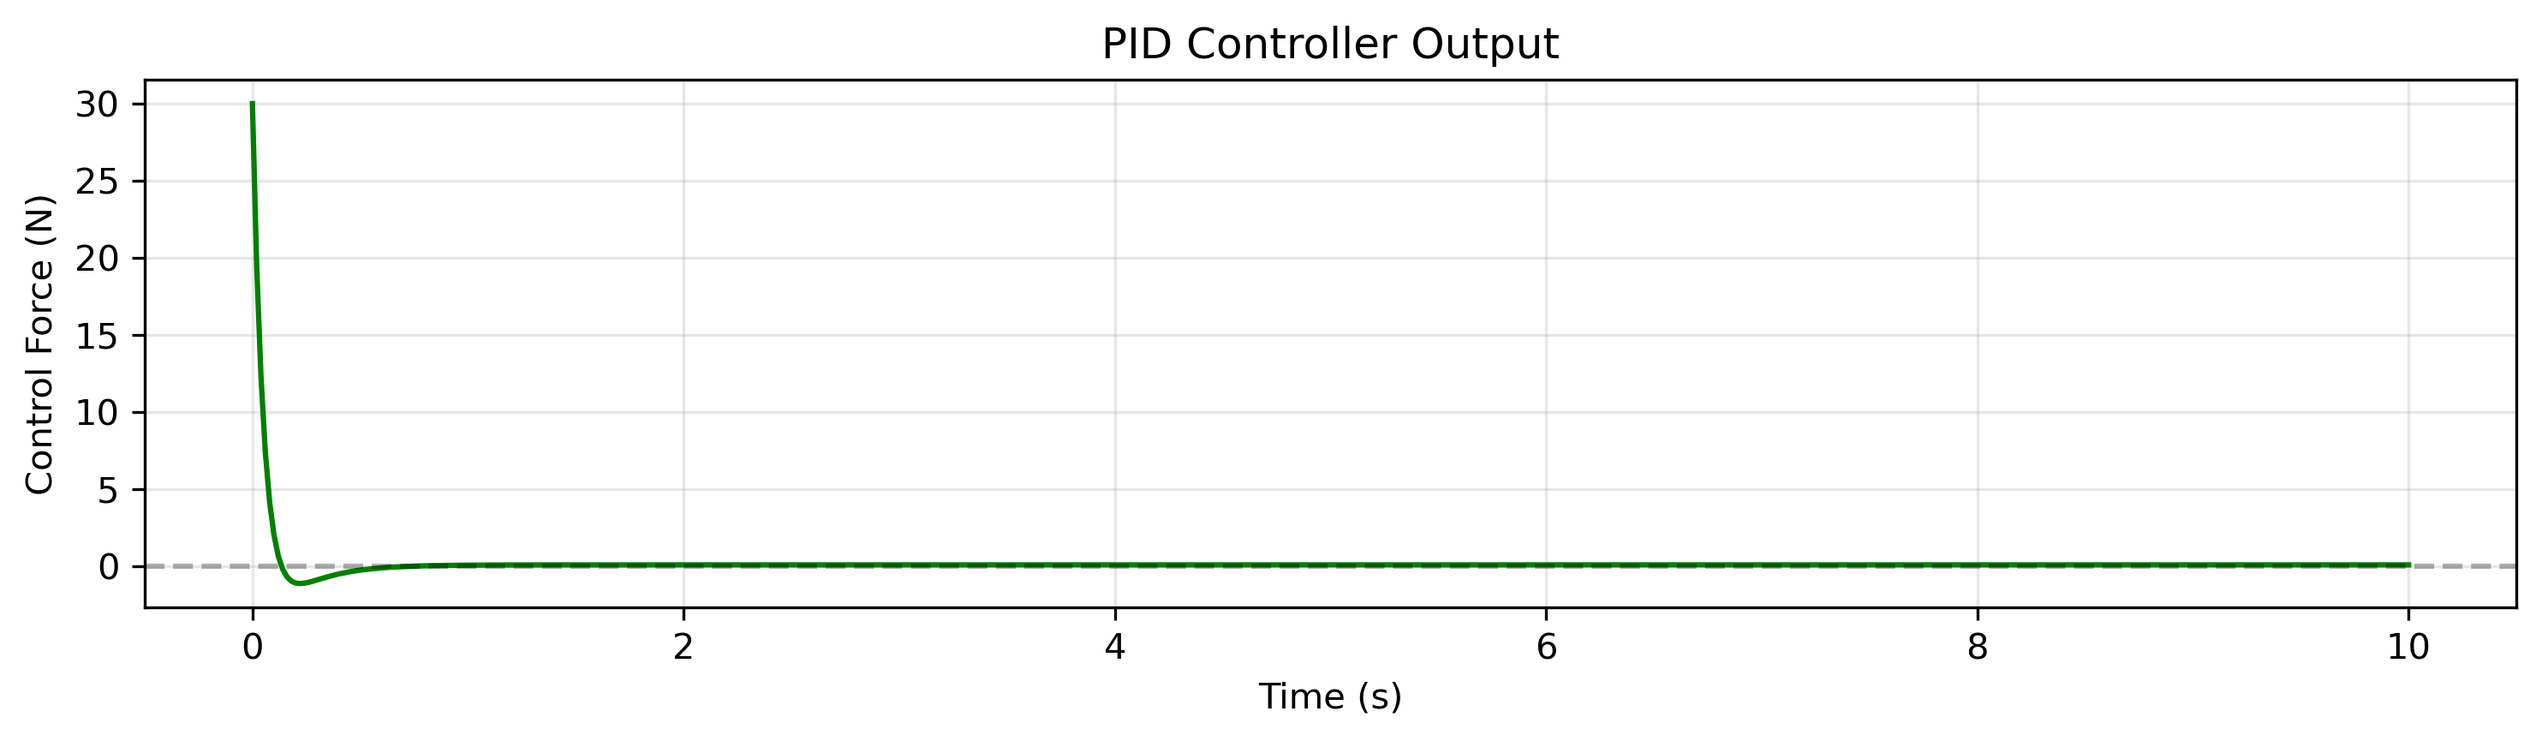
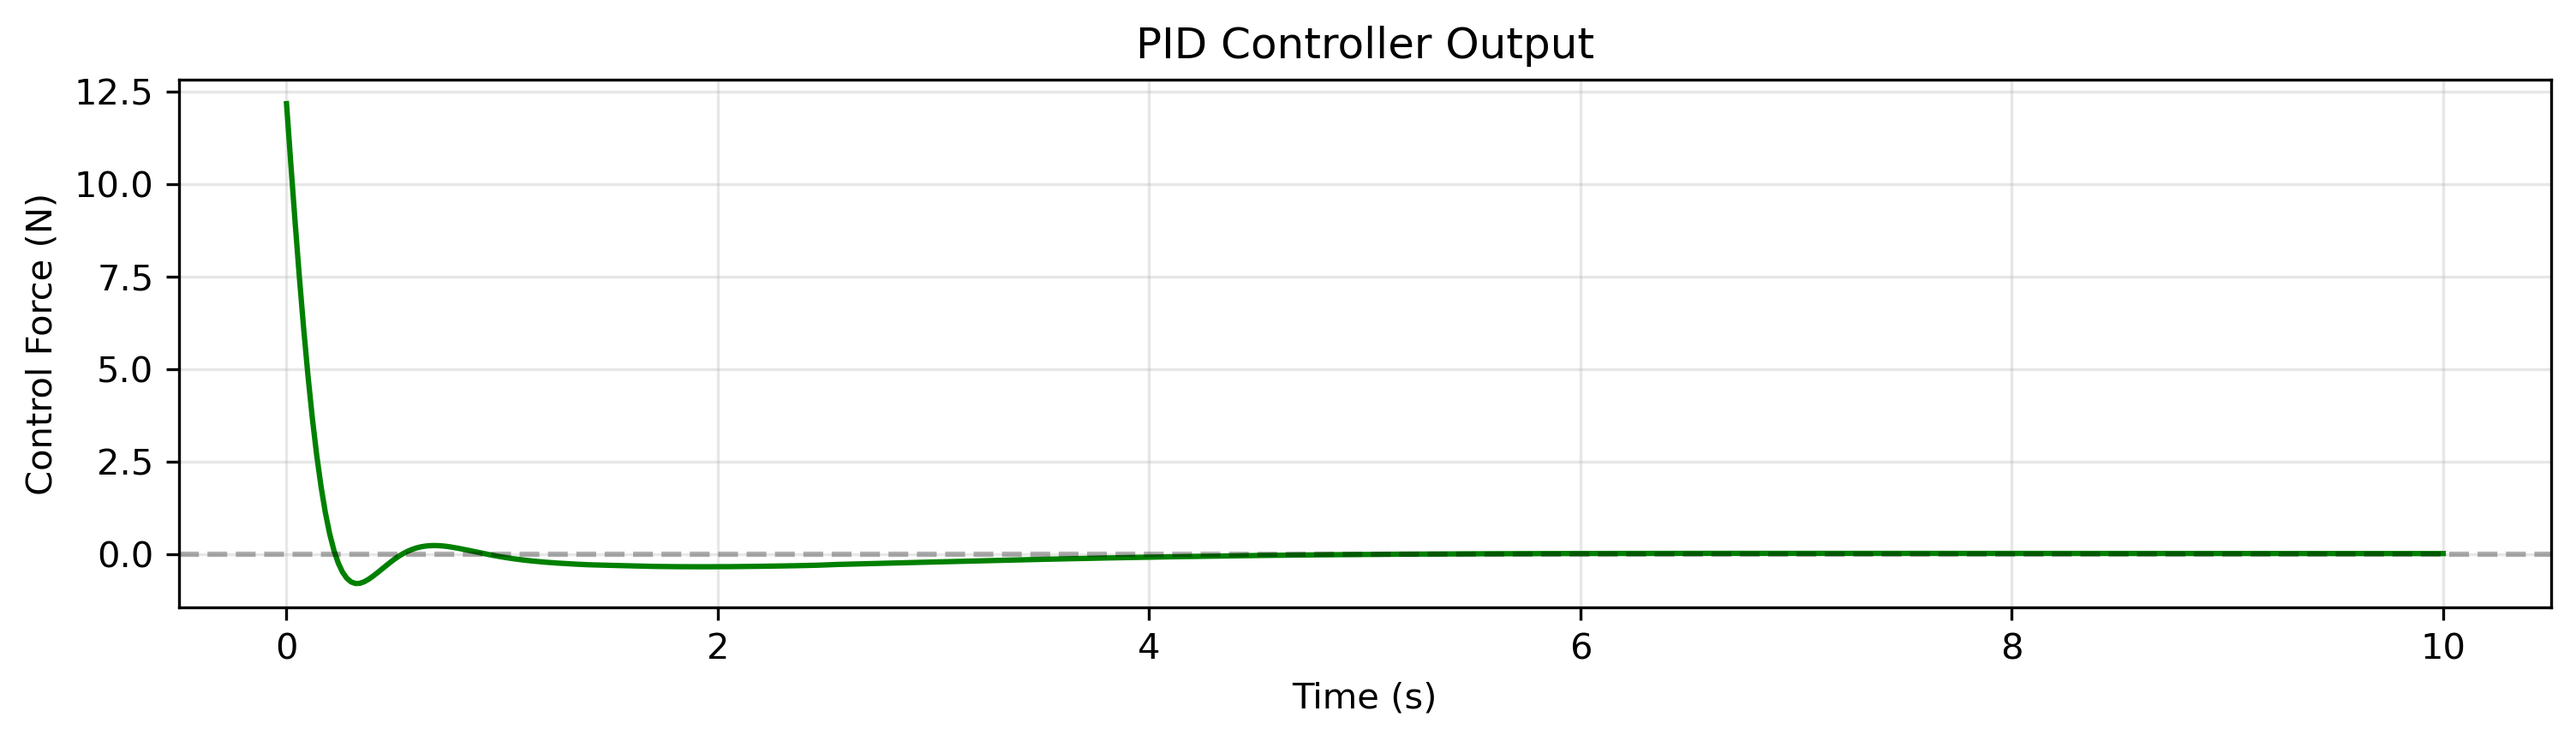
Tuned PID Controller

diff --git a/src/controller.py b/src/controller.py
@@ -7,94 +7,131 @@ from scipy.linalg import solve_continuous_are
 
 class PIDController:
     """
-    PID controller for cart-pole stabilization.
+    Cascaded PID controller for cart-pole stabilization with position control.
     
-    The controller computes the force to apply to the cart to keep
-    the pendulum upright (theta = 0).
+    The controller computes the force to apply to the cart to:
+    1. Keep the pendulum upright (theta = 0) - primary objective
+    2. Move cart to desired position (x = x_setpoint) - secondary objective
+    
+    Uses a cascaded approach where position control is weighted less than angle control.
     """
     
     def __init__(
         self,
-        kp: float = 50.0,
-        ki: float = 0.0,
-        kd: float = 20.0,
-        setpoint: float = 0.0
+        kp_theta: float = 100.0,
+        ki_theta: float = 0.5,
+        kd_theta: float = 20.0,
+        kp_x: float = 10.0,
+        ki_x: float = 0.1,
+        kd_x: float = 15.0,
+        theta_setpoint: float = 0.0,
+        x_setpoint: float = 0.0
     ):
         """
-        Initialize the PID controller.
+        Initialize the cascaded PID controller.
         
         Args:
-            kp: Proportional gain
-            ki: Integral gain
-            kd: Derivative gain
-            setpoint: Target angle (rad), typically 0 for upright
+            kp_theta: Proportional gain for angle
+            ki_theta: Integral gain for angle
+            kd_theta: Derivative gain for angle
+            kp_x: Proportional gain for position
+            ki_x: Integral gain for position
+            kd_x: Derivative gain for position (velocity damping)
+            theta_setpoint: Target angle (rad), typically 0 for upright
+            x_setpoint: Target cart position (m)
         """
-        self.kp = kp
-        self.ki = ki
-        self.kd = kd
-        self.setpoint = setpoint
+        # Angle PID gains
+        self.kp_theta = kp_theta
+        self.ki_theta = ki_theta
+        self.kd_theta = kd_theta
+        self.theta_setpoint = theta_setpoint
+        
+        # Position PID gains
+        self.kp_x = kp_x
+        self.ki_x = ki_x
+        self.kd_x = kd_x
+        self.x_setpoint = x_setpoint
         
         # Internal state
-        self.integral = 0.0
-        self.previous_error = 0.0
+        self.integral_theta = 0.0
+        self.integral_x = 0.0
         self.previous_time = None
     
-    def compute(self, theta: float, theta_dot: float, t: float) -> float:
+    def compute(self, state: np.ndarray, t: float) -> float:
         """
         Compute the control force based on current state.
         
         Args:
-            theta: Current pendulum angle (rad)
-            theta_dot: Current angular velocity (rad/s)
+            state: Current state vector [x, x_dot, theta, theta_dot]
             t: Current time (s)
             
         Returns:
             Control force to apply to cart (N)
         """
-        # Compute error (positive error means pendulum leaning to positive angle)
-        error = theta - self.setpoint
+        x, x_dot, theta, theta_dot = state
         
         # Initialize time tracking on first call
         if self.previous_time is None:
             self.previous_time = t
-            self.previous_error = error
             dt = 0.01  # Small default dt
         else:
             dt = t - self.previous_time
             if dt <= 0:
                 dt = 0.01
         
+        # --- Angle Control (Primary) ---
+        error_theta = theta - self.theta_setpoint
+        
         # Proportional term
-        P = self.kp * error
+        P_theta = self.kp_theta * error_theta
         
         # Integral term (with anti-windup)
-        self.integral += error * dt
-        # Clamp integral to prevent windup
+        self.integral_theta += error_theta * dt
         max_integral = 100.0
-        self.integral = np.clip(self.integral, -max_integral, max_integral)
-        I = self.ki * self.integral
+        self.integral_theta = np.clip(self.integral_theta, -max_integral, max_integral)
+        I_theta = self.ki_theta * self.integral_theta
         
-        # Derivative term (using angular velocity is more stable than numerical derivative)
-        D = self.kd * theta_dot
+        # Derivative term (using angular velocity)
+        D_theta = self.kd_theta * theta_dot
         
-        # Control force (negative because we want to oppose the lean)
-        # If theta > 0 (leaning right), we need force < 0 (push left) to catch it
-        force = P + I + D
+        # Angle control force
+        force_theta = P_theta + I_theta + D_theta
+        
+        # --- Position Control (Secondary) ---
+        error_x = x - self.x_setpoint
+        
+        # Proportional term
+        P_x = self.kp_x * error_x
+        
+        # Integral term (with anti-windup)
+        self.integral_x += error_x * dt
+        self.integral_x = np.clip(self.integral_x, -max_integral, max_integral)
+        I_x = self.ki_x * self.integral_x
+        
+        # Derivative term (velocity damping)
+        D_x = self.kd_x * x_dot
+        
+        # Position control force
+        force_x = P_x + I_x + D_x
+        
+        # --- Combined Control ---
+        # Combine both controllers (angle control is primary, position is secondary)
+        # Negative sign because positive force moves cart right
+        force = force_theta + force_x
         
         # Update for next iteration
-        self.previous_error = error
         self.previous_time = t
         
-        # Optional: Add force limits to be realistic
-        max_force = 100.0  # N
+        # Apply force limits
+        max_force = 100.0
         force = np.clip(force, -max_force, max_force)
         
         return force
     
     def reset(self):
         """Reset the controller's internal state."""
-        self.integral = 0.0
-        self.previous_error = 0.0
+        self.integral_theta = 0.0
+        self.integral_x = 0.0
         self.previous_time = None
 
 

diff --git a/src/main_pid.py b/src/main_pid.py
@@ -27,13 +27,20 @@ def main():
     # Create simulator
     simulator = Simulator(cart_pole)
     
-    # Create PID controller
+    # Create PID controller with position setpoint
     # Tuned gains for this system
     controller = PIDController(
-        kp=100,    # Proportional gain
-        ki=0.5,     # Integral gain (small to prevent windup)
-        kd=20.0,    # Derivative gain
-        setpoint=0.0  # Target: upright position
+        # Angle control gains (primary)
+        kp_theta=100,    # Proportional gain for angle
+        ki_theta=0.5,    # Integral gain for angle
+        kd_theta=20.0,   # Derivative gain for angle
+        # Position control gains (secondary)
+        kp_x=7.0,       # Proportional gain for position
+        ki_x=0.0,        # Integral gain for position
+        kd_x=12.0,       # Derivative gain for position velocity
+        # Setpoints
+        theta_setpoint=0.0,  # Target: upright position
+        x_setpoint=2.0       # Target: cart at 2.0m
     )
     
     # Define initial conditions
@@ -41,11 +48,13 @@ def main():
     initial_state = np.array([
         0.0,    # x: cart position (m)
         0.0,    # x_dot: cart velocity (m/s)
-        0.3,    # theta: pendulum angle (rad) - about 17 degrees
+        np.deg2rad(15.0),    # theta: pendulum angle (rad) - about 15 degrees
         0.0     # theta_dot: angular velocity (rad/s)
     ])
     
     print(f"Initial angle: {np.rad2deg(initial_state[2]):.1f} degrees")
+    print(f"Initial position: {initial_state[0]:.2f} meters")
+    print(f"Target position: {controller.x_setpoint:.2f} meters")
     
     # Run controlled simulation
     print("Running controlled simulation...")
@@ -79,9 +88,8 @@ def main():
     controller.reset()  # Reset controller state
     for i in range(len(result.time)):
         t = result.time[i]
-        theta = result.theta[i]
-        theta_dot = result.theta_dot[i]
-        force = controller.compute(theta, theta_dot, t)
+        state = result.states[:, i]
+        force = controller.compute(state, t)
         forces.append(force)
     
     ax.plot(result.time, forces, 'g-', linewidth=1.5)
